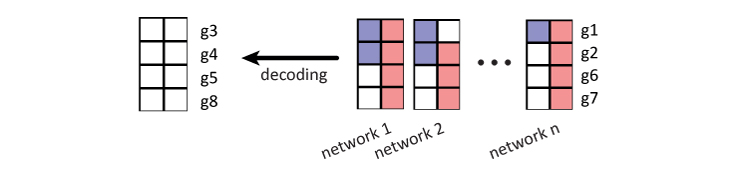
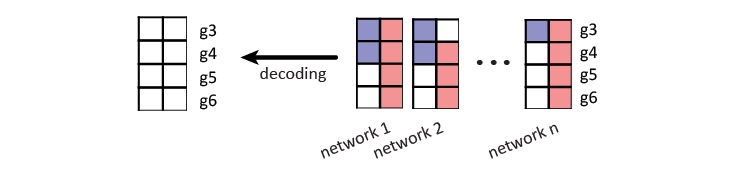
toy example figure fix

Changed region(s): [[0.184, 0.0872, 0.7973, 0.6686], [0.4293, 0.6977, 0.6133, 0.9302], [0.644, 0.7267, 0.7667, 0.9302]]

diff --git a/docs/model.md b/docs/model.md
@@ -84,7 +84,7 @@ With the defined codeword matrix $$Z$$ and encoded repetitive codes as data matr
 
 ![](/assets/images/ecocModel5_large.jpg)
 
-In encoding, a combination of linear and *Gaussian* regression models are used to encode codeword $$Z$$ to the data matrix $$X$$.  The linear classifiers are for each of the $$q$$ labels in $$Y$$,  and the gaussian regression models are for the $$k$$ label dependency terms ($$V_k^TY$$).  The following denotes the models for each row vector $$x^i$$ in $$X$$. In the toy example above, 4 row vectors for gene $$g1, g2, g6$$ and $$g7$$ are used to learn the latent structure of the 2 labels. The number of label dependency terms $$k$$ is a hyperparameter to be estimated by cross validation. 
+In encoding, a combination of linear and *Gaussian* regression models are used to encode codeword $$Z$$ to the data matrix $$X$$.  The linear classifiers are for each of the $$q$$ labels in $$Y$$,  and the gaussian regression models are for the $$k$$ label dependency terms ($$V_k^TY$$).  The following denotes the models for each row vector $$x^i$$ in $$X$$. In the toy example above, 4 row vectors for gene $$g1, g2, g7$$ and $$g8$$ are used to learn the latent structure of the 2 labels. The number of label dependency terms $$k$$ is a hyperparameter to be estimated by cross validation. 
 
 
 \begin{equation}
@@ -143,7 +143,7 @@ Two hyperparameters are estimated in training, which are $$k$$ dependency terms 
  
 
 ## Gene label prediction
-The final step is to decode $$X$$ to a predicted label matrix $$Y^h$$, using the learned $$q$$ linear models and $$k$$ label dependency terms. In the toy example, the labels and repetitive codes for gene $$g3, g4, g5$$, and $$g8$$ are used for training the model. And gene $$g1, g2, g6$$, and $$g7$$ are decoded back to label probabilities. These are the label predictions for these four genes.  
+The final step is to decode $$X$$ to a predicted label matrix $$Y^h$$, using the learned $$q$$ linear models and $$k$$ label dependency terms. In the mentioned toy example throughout this page, the labels and repetitive codes for gene $$g1, g2, g7$$, and $$g8$$ are used for training the model. And the repetitive code for gene $$g3, g4, g5$$, and $$g6$$ are decoded back to label probabilities. These are the label predictions for these four genes.  
 
 ![](/assets/images/ecocModel6_large.jpg)
 
